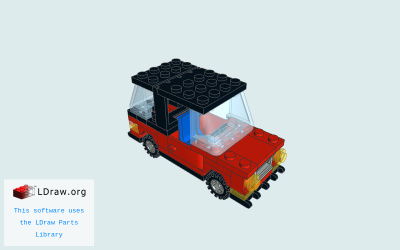
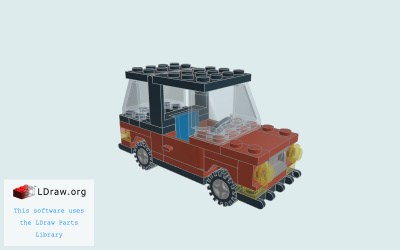
Examples: Improved webgl_loader_ldraw camera.

Changed region(s): [[0.3, 0.224, 0.78, 0.84], [0.03, 0.812, 0.21, 0.896], [0.09, 0.924, 0.15, 0.952]]

diff --git a/examples/webgl_loader_ldraw.html b/examples/webgl_loader_ldraw.html
@@ -192,7 +192,7 @@
 						if ( resetCamera ) {
 
 							controls.target0.copy( bbox.getCenter( new THREE.Vector3() ) );
-							controls.position0.set( - 2.3, 2, 2 ).multiplyScalar( radius ).add( controls.target0 );
+							controls.position0.set( - 2.3, 1, 2 ).multiplyScalar( radius ).add( controls.target0 );
 							controls.reset();
 
 						}
